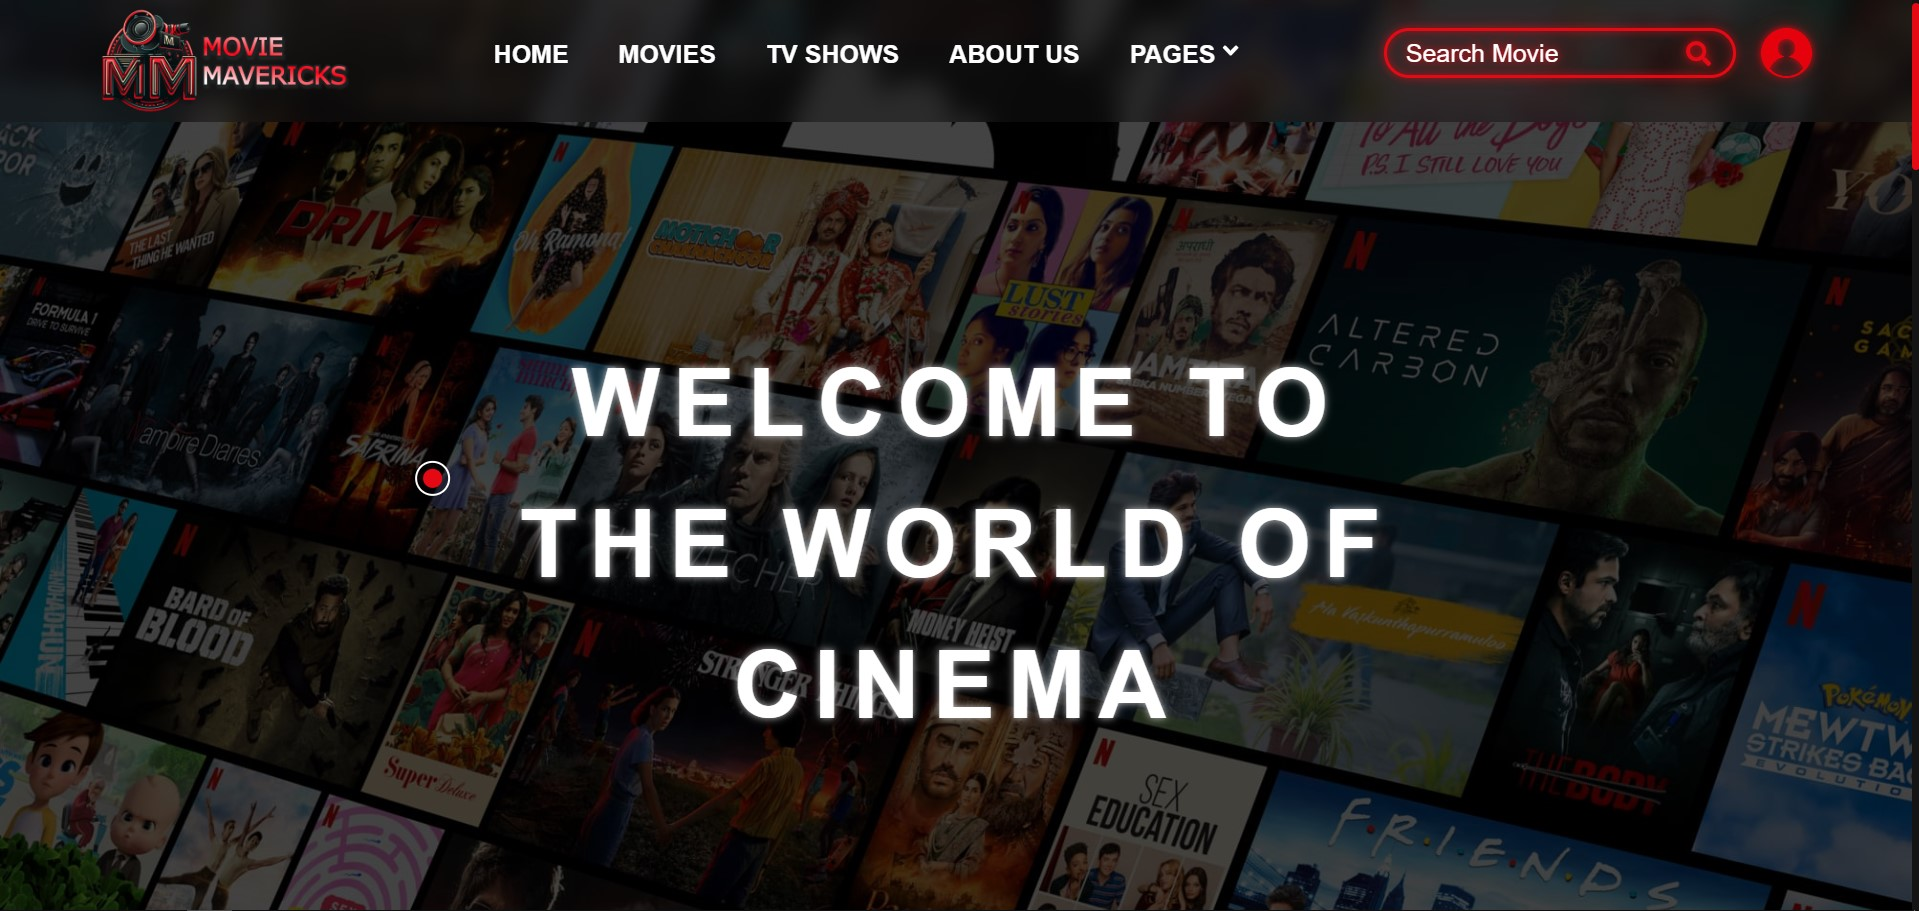
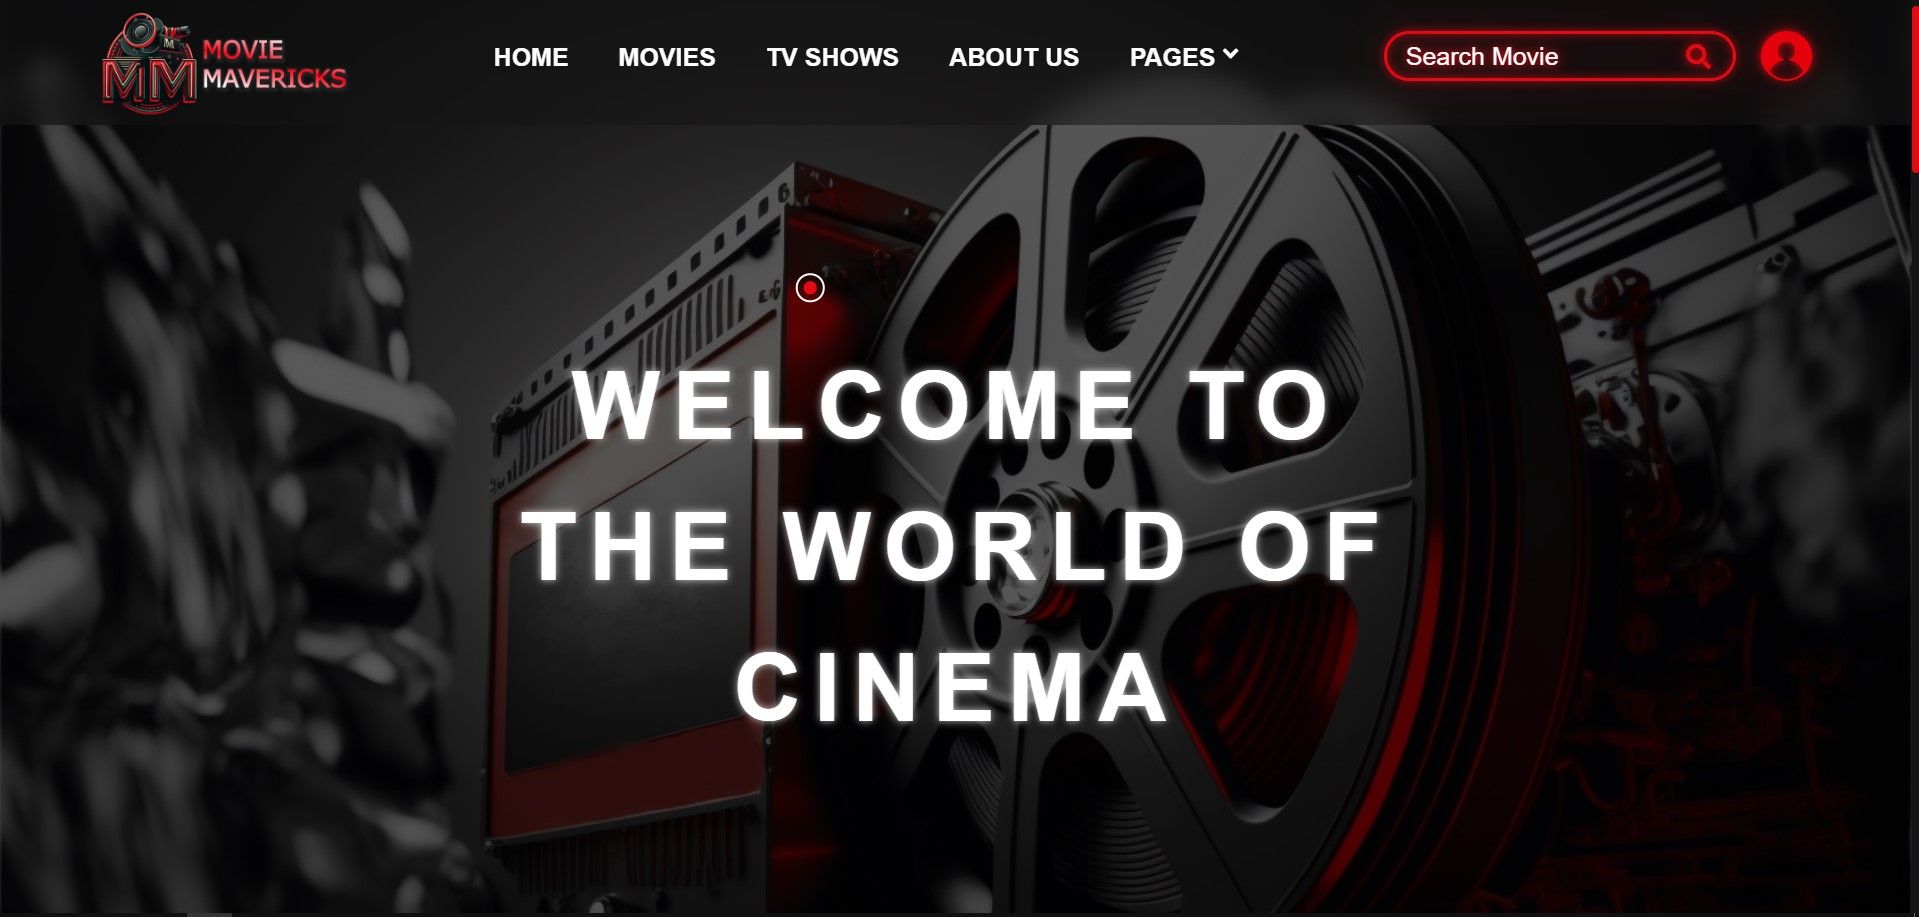
Home Main Picture Changed and Showcase Images

diff --git a/capstone-project/src/Pages/Home/index.jsx b/capstone-project/src/Pages/Home/index.jsx
@@ -1,5 +1,5 @@
 import {React, useEffect} from "react";
-import MainPic from "../../assets/images/BackgroundImages/HomeMain.jpg";
+import MainPic from "../../assets/images/BackgroundImages/HomeMain2.jpg";
 import MainPicture from "../../Components/MainPicture";
 import SliderHeader from "../../Components/SliderHeader";
 import HorizontalSlider from "../../Components/HorizontalSlider";
